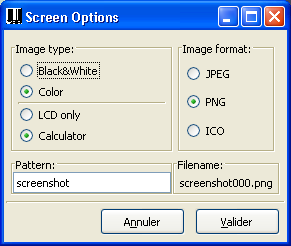
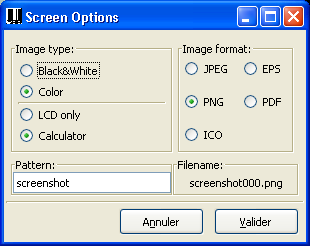
Updated manual about new screenshot formats added by JB.
git-svn-id: http://svn.tilp.info/repos/tiemu@1401 4f589446-7ac1-0310-82c7-a055b08196ef

diff --git a/tiemu/trunk/help/chapter08.html b/tiemu/trunk/help/chapter08.html
@@ -43,12 +43,15 @@ is slightly automated.<br>
 From the popup menu, select <span style="font-style: italic;">Screenshot
 &gt; Options</span> :<br>
 <br>
-<div style="text-align: center;"><img alt="" src="screenshot.png"
- style="width: 291px; height: 246px;"><br>
+<div style="text-align: center;"><a href="screenshot.png"><img alt=""
+ src="screenshot.png"
+ style="border: 0px solid ; width: 310px; height: 246px;"></a><br>
 </div>
 <br>
 <br>
-TiEmu currently supports 3 image formats: JPG, PNG and ICO on both
+TiEmu currently supports 5 image formats: JPG (jpeg), PNG, ICO (Windows
+Icon), EPS (Encapsulated PostScript) and PDF (Adobe Portable Document
+Format) on both
 platforms. Image can be saved as color or B&amp;W. You can choose to
 save the whole window or just the LCD area.<br>
 <br>
